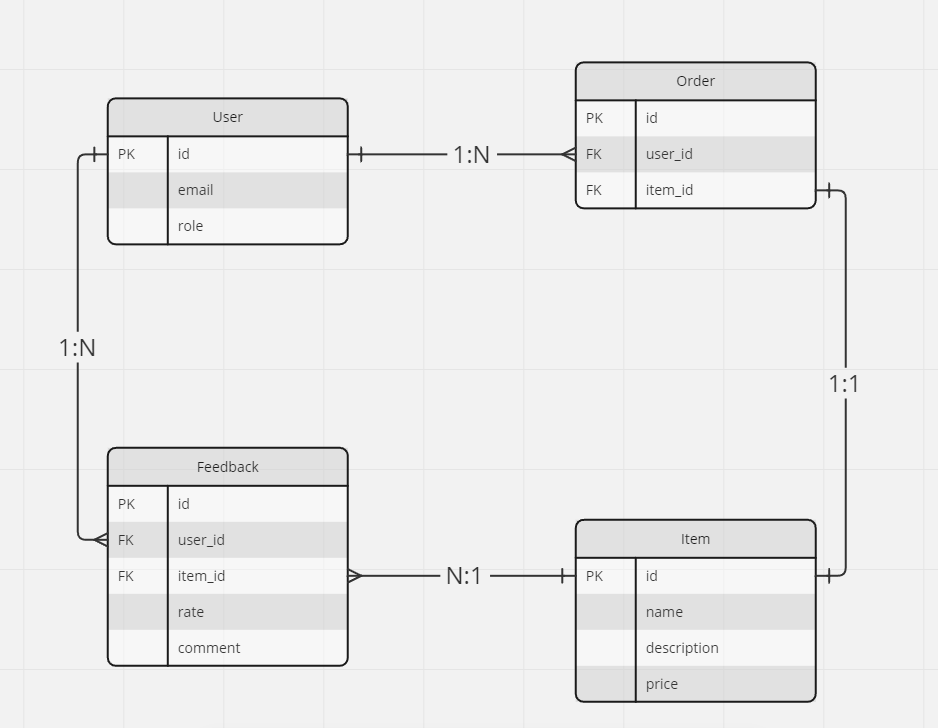
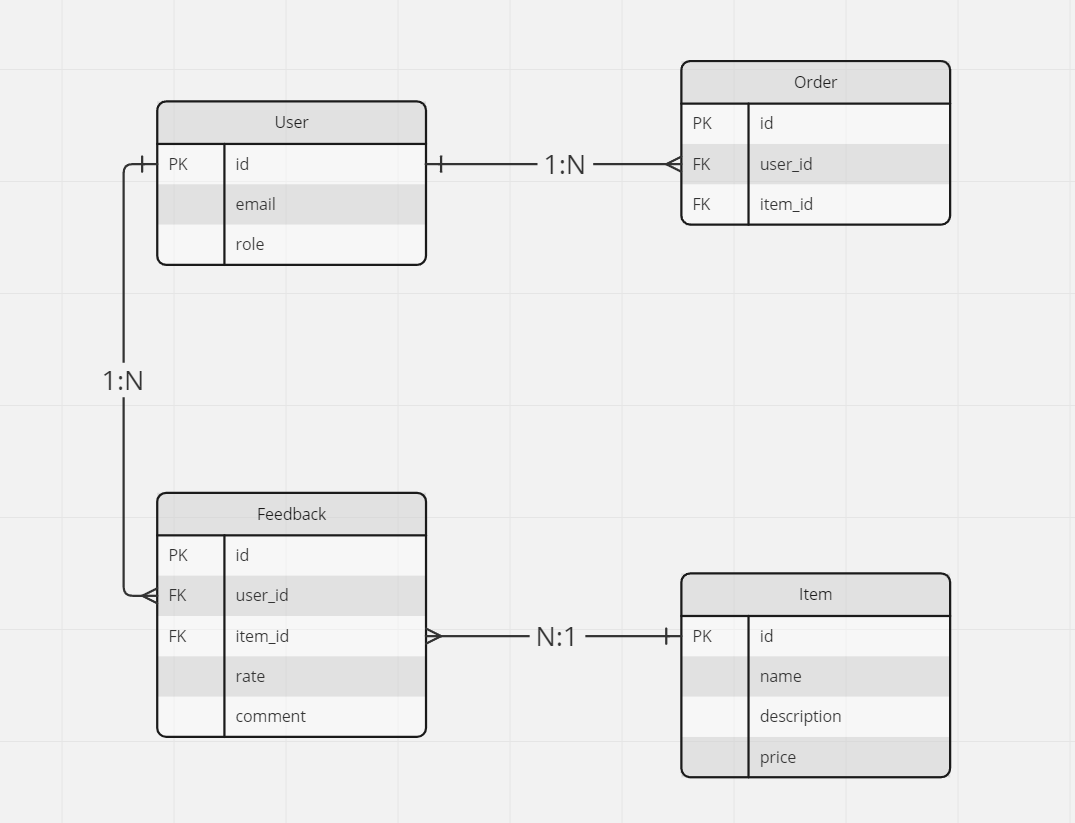
Modify constraints

Changed region(s): [[0.0618, 0.0604, 0.9275, 0.967], [0.8966, 0.272, 0.9275, 0.4835], [0.8966, 0.5137, 0.9275, 0.544]]

diff --git a/internet-shop-api/src/main/java/com/gigateam/internetshopapi/model/Order.java b/internet-shop-api/src/main/java/com/gigateam/internetshopapi/model/Order.java
@@ -1,12 +1,12 @@
 package com.gigateam.internetshopapi.model;
 
+import jakarta.persistence.Column;
 import jakarta.persistence.Entity;
 import jakarta.persistence.GeneratedValue;
 import jakarta.persistence.GenerationType;
 import jakarta.persistence.Id;
 import jakarta.persistence.JoinColumn;
 import jakarta.persistence.ManyToOne;
-import jakarta.persistence.OneToOne;
 import jakarta.persistence.Table;
 import lombok.Data;
 
@@ -23,8 +23,7 @@ public class Order {
   @ManyToOne(targetEntity = User.class)
   private Long userId;
 
-  @JoinColumn(name = "item_id")
-  @OneToOne(targetEntity = Item.class)
+  @Column(name = "item_id")
   private Long itemId;
 
 }

diff --git a/internet-shop-api/src/main/java/com/gigateam/internetshopapi/model/Feedback.java b/internet-shop-api/src/main/java/com/gigateam/internetshopapi/model/Feedback.java
@@ -31,6 +31,6 @@ public class Feedback {
   private String comment;
 
   @Column(name = "rate")
-  private Integer rate; //TODO: mb save as Enum?
+  private Integer rate;
 
 }
